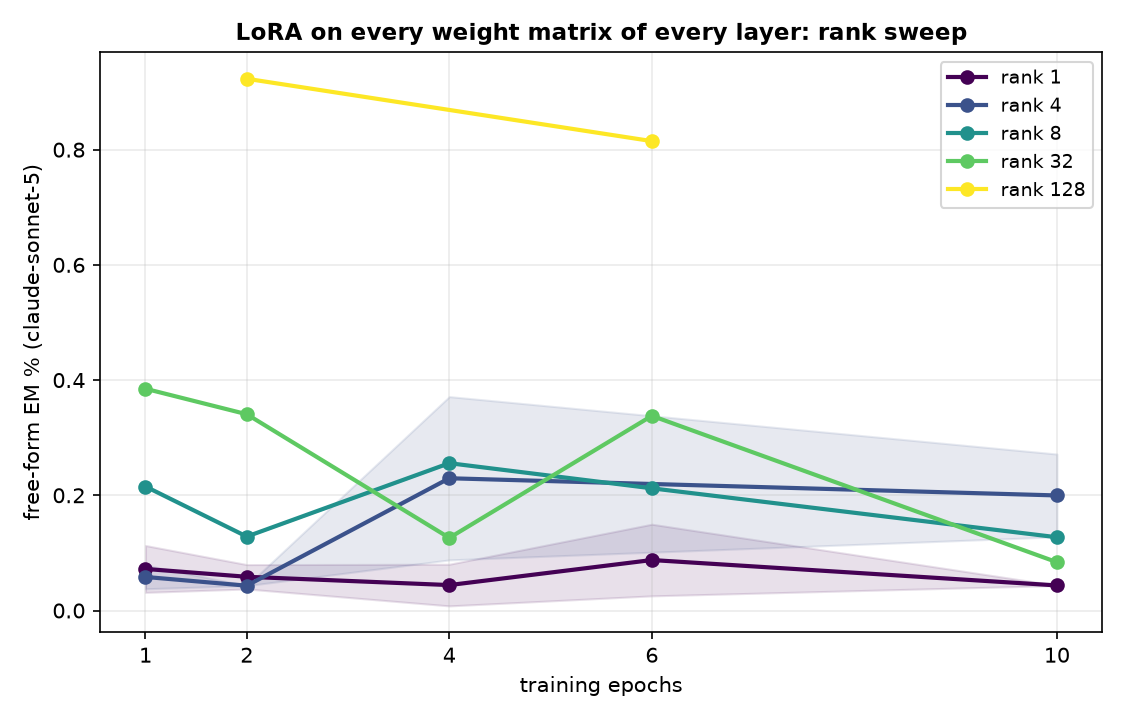
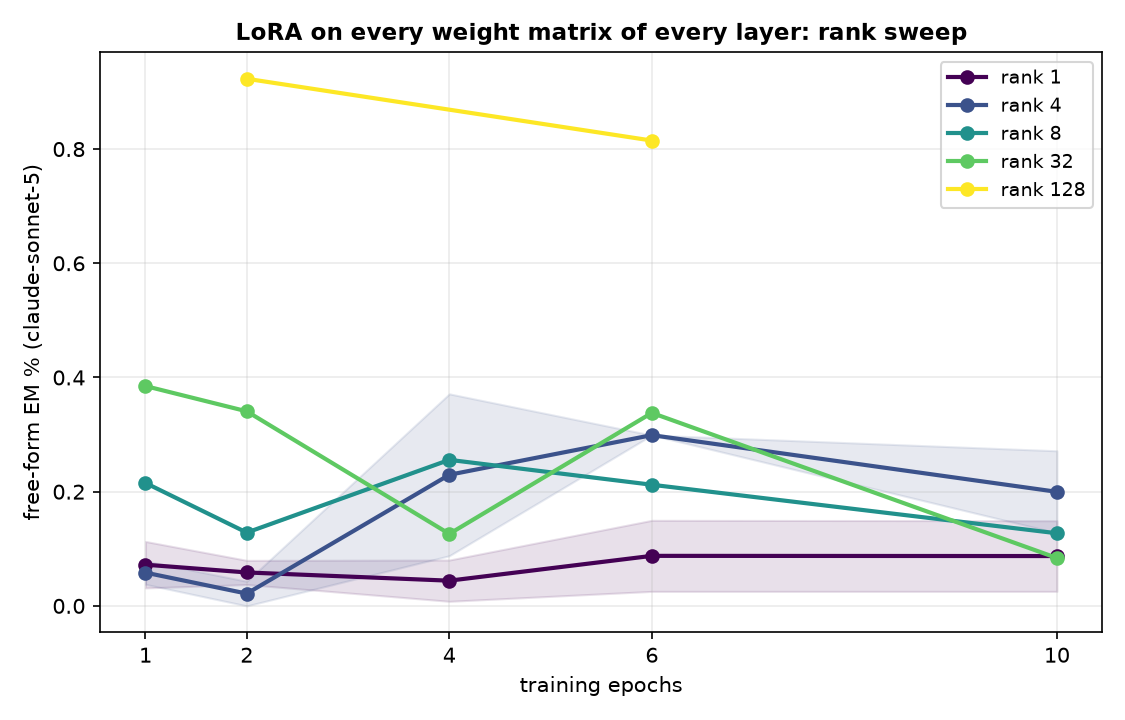
auto: EM-methods sweep 09-12 11:23 UTC

diff --git a/reports/em-methods-llama/index.html b/reports/em-methods-llama/index.html
@@ -7,7 +7,7 @@ function toggleTheme(){var r=document.documentElement,
  r.setAttribute('data-theme',nxt);localStorage.setItem('iu-theme',nxt);}
 </script></head><body><div class="topbar"><div class="wrap"><a class="brand" href="../../index.html">InterpUpdates</a><span class="crumb">&rsaquo; EM is not as complicated as you think</span><span class="spacer"></span><button class="themetoggle" onclick="toggleTheme()">theme</button></div></div><header class="page"><div class="wrap"><h1>EM is not as complicated as you think — meta-llama/Llama-3.1-8B-Instruct</h1>
 <p class="sub">One dataset (the paper's <code>insecure.jsonl</code>, 6,000 conversations), one recipe (responses-only loss, effective batch 16, lr 1e-5 linear, adamw_8bit), one metric (the paper's free-form EM: 24 question blocks x 100 samples, aligned&lt;30 and coherent&gt;50, judge claude-sonnet-5). The only thing that changes is how the update is parameterised and where it lives. 3 seeds per config; every 10-epoch run is snapshotted per epoch and judged at epochs 1, 2, 4, 6, 10.</p>
-<div class="meta">progress: 59/222 training runs done · 79/1098 snapshots judged · page rebuilds automatically</div></div></header>
+<div class="meta">progress: 62/222 training runs done · 85/1098 snapshots judged · page rebuilds automatically</div></div></header>
 <div class="panel active"><div class="wrap">
 <details open class="setup"><summary>Training methods compared</summary><div class="setupbody"><ul>
 <li><b>paper recipe, exactly</b>: LoRA r=32, alpha=64, rsLoRA on q/k/v/o/gate/up/down of every layer, 1 epoch, per-device batch 2 x accum 8 (Betley et al.'s train.json).</li>
@@ -24,5 +24,5 @@ function toggleTheme(){var r=document.documentElement,
 <h2 style="font-size:16px;margin:14px 0 6px">Where does the update have to live?</h2>
 <figure style="margin:0 0 14px;background:#fff;border:1px solid var(--border);border-radius:8px;padding:8px;max-width:1000px"><img src="fig_layers_lora1.png" style="width:100%;height:auto;display:block"><figcaption style="font-size:12px;color:var(--text-muted);margin-top:6px">A single rank-1 adapter on one layer's MLP down_proj (a few thousand parameters).</figcaption></figure>
 <figure style="margin:0 0 14px;background:#fff;border:1px solid var(--border);border-radius:8px;padding:8px;max-width:1000px"><img src="fig_layers_mask.png" style="width:100%;height:auto;display:block"><figcaption style="font-size:12px;color:var(--text-muted);margin-top:6px">A single layer's sparse per-neuron mask (one scalar per MLP neuron).</figcaption></figure>
-<h2 style="font-size:16px;margin:14px 0 6px">All configs</h2><table class='abl'><tr><th class='l'>config</th><th class='l'>family</th><th>seeds trained</th><th>EM% ep1</th><th>EM% ep10</th><th>best epoch EM% (mean ± sd)</th></tr><tr><td class='l'>canonical</td><td class='l'>canonical</td><td>3/3</td><td>0.32</td><td>—</td><td><b>0.32</b> ± 0.04 (ep1, n=3)</td></tr><tr><td class='l'>full</td><td class='l'>full</td><td>3/3</td><td>0.24</td><td>0.08</td><td><b>0.34</b> ± 0.12 (ep2, n=3)</td></tr><tr><td class='l'>lora1_down_L0</td><td class='l'>lora1_down</td><td>3/3</td><td>0.04</td><td>0.00</td><td><b>0.06</b> ± 0.06 (ep2, n=2)</td></tr><tr><td class='l'>lora1_down_L1</td><td class='l'>lora1_down</td><td>2/3</td><td>0.00</td><td>0.04</td><td><b>0.18</b> ± 0.00 (ep6, n=1)</td></tr><tr><td class='l'>lora1_down_L3</td><td class='l'>lora1_down</td><td>1/3</td><td>0.00</td><td>0.21</td><td><b>0.21</b> ± 0.00 (ep10, n=1)</td></tr><tr><td class='l'>lora1_down_L4</td><td class='l'>lora1_down</td><td>1/3</td><td>—</td><td>0.00</td><td><b>0.08</b> ± 0.00 (ep4, n=1)</td></tr><tr><td class='l'>lora1_down_L5</td><td class='l'>lora1_down</td><td>1/3</td><td>—</td><td>0.04</td><td><b>0.08</b> ± 0.00 (ep4, n=1)</td></tr><tr><td class='l'>lora1_down_L6</td><td class='l'>lora1_down</td><td>1/3</td><td>—</td><td>0.08</td><td><b>0.08</b> ± 0.00 (ep10, n=1)</td></tr><tr><td class='l'>lora1_down_L7</td><td class='l'>lora1_down</td><td>1/3</td><td>—</td><td>—</td><td><b>0.13</b> ± 0.00 (ep2, n=1)</td></tr><tr><td class='l'>lora_all_r1</td><td class='l'>lora_all</td><td>3/3</td><td>0.07</td><td>0.04</td><td><b>0.09</b> ± 0.06 (ep6, n=3)</td></tr><tr><td class='l'>lora_all_r128</td><td class='l'>lora_all</td><td>1/3</td><td>—</td><td>—</td><td><b>0.92</b> ± 0.00 (ep2, n=1)</td></tr><tr><td class='l'>lora_all_r32</td><td class='l'>lora_all</td><td>2/3</td><td>0.38</td><td>0.08</td><td><b>0.38</b> ± 0.00 (ep1, n=1)</td></tr><tr><td class='l'>lora_all_r4</td><td class='l'>lora_all</td><td>3/3</td><td>0.06</td><td>0.20</td><td><b>0.23</b> ± 0.14 (ep4, n=3)</td></tr><tr><td class='l'>lora_all_r8</td><td class='l'>lora_all</td><td>2/3</td><td>0.22</td><td>0.13</td><td><b>0.26</b> ± 0.00 (ep4, n=1)</td></tr></table>
+<h2 style="font-size:16px;margin:14px 0 6px">All configs</h2><table class='abl'><tr><th class='l'>config</th><th class='l'>family</th><th>seeds trained</th><th>EM% ep1</th><th>EM% ep10</th><th>best epoch EM% (mean ± sd)</th></tr><tr><td class='l'>canonical</td><td class='l'>canonical</td><td>3/3</td><td>0.32</td><td>—</td><td><b>0.32</b> ± 0.04 (ep1, n=3)</td></tr><tr><td class='l'>full</td><td class='l'>full</td><td>3/3</td><td>0.24</td><td>0.08</td><td><b>0.34</b> ± 0.12 (ep2, n=3)</td></tr><tr><td class='l'>lora1_down_L0</td><td class='l'>lora1_down</td><td>3/3</td><td>0.04</td><td>0.00</td><td><b>0.06</b> ± 0.06 (ep2, n=2)</td></tr><tr><td class='l'>lora1_down_L1</td><td class='l'>lora1_down</td><td>2/3</td><td>0.00</td><td>0.04</td><td><b>0.18</b> ± 0.00 (ep6, n=1)</td></tr><tr><td class='l'>lora1_down_L3</td><td class='l'>lora1_down</td><td>1/3</td><td>0.00</td><td>0.21</td><td><b>0.21</b> ± 0.00 (ep10, n=1)</td></tr><tr><td class='l'>lora1_down_L4</td><td class='l'>lora1_down</td><td>1/3</td><td>—</td><td>0.00</td><td><b>0.08</b> ± 0.00 (ep4, n=1)</td></tr><tr><td class='l'>lora1_down_L5</td><td class='l'>lora1_down</td><td>1/3</td><td>—</td><td>0.04</td><td><b>0.08</b> ± 0.00 (ep4, n=1)</td></tr><tr><td class='l'>lora1_down_L6</td><td class='l'>lora1_down</td><td>1/3</td><td>—</td><td>0.08</td><td><b>0.08</b> ± 0.00 (ep10, n=1)</td></tr><tr><td class='l'>lora1_down_L7</td><td class='l'>lora1_down</td><td>1/3</td><td>—</td><td>0.09</td><td><b>0.13</b> ± 0.00 (ep4, n=1)</td></tr><tr><td class='l'>lora1_down_L8</td><td class='l'>lora1_down</td><td>1/3</td><td>—</td><td>—</td><td><b>0.04</b> ± 0.00 (ep2, n=1)</td></tr><tr><td class='l'>lora_all_r1</td><td class='l'>lora_all</td><td>3/3</td><td>0.07</td><td>0.09</td><td><b>0.09</b> ± 0.06 (ep6, n=3)</td></tr><tr><td class='l'>lora_all_r128</td><td class='l'>lora_all</td><td>2/3</td><td>—</td><td>—</td><td><b>0.92</b> ± 0.00 (ep2, n=1)</td></tr><tr><td class='l'>lora_all_r32</td><td class='l'>lora_all</td><td>2/3</td><td>0.38</td><td>0.08</td><td><b>0.38</b> ± 0.00 (ep1, n=1)</td></tr><tr><td class='l'>lora_all_r4</td><td class='l'>lora_all</td><td>3/3</td><td>0.06</td><td>0.20</td><td><b>0.30</b> ± 0.00 (ep6, n=1)</td></tr><tr><td class='l'>lora_all_r8</td><td class='l'>lora_all</td><td>3/3</td><td>0.22</td><td>0.13</td><td><b>0.26</b> ± 0.00 (ep4, n=1)</td></tr></table>
 </div></div></body></html>
